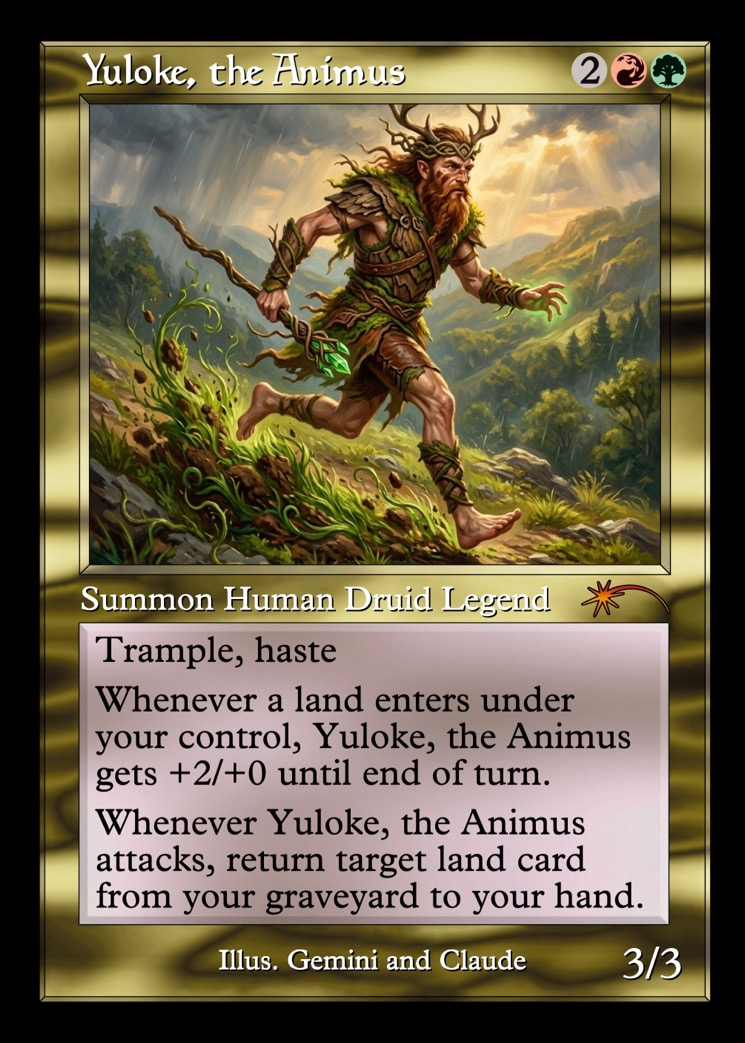
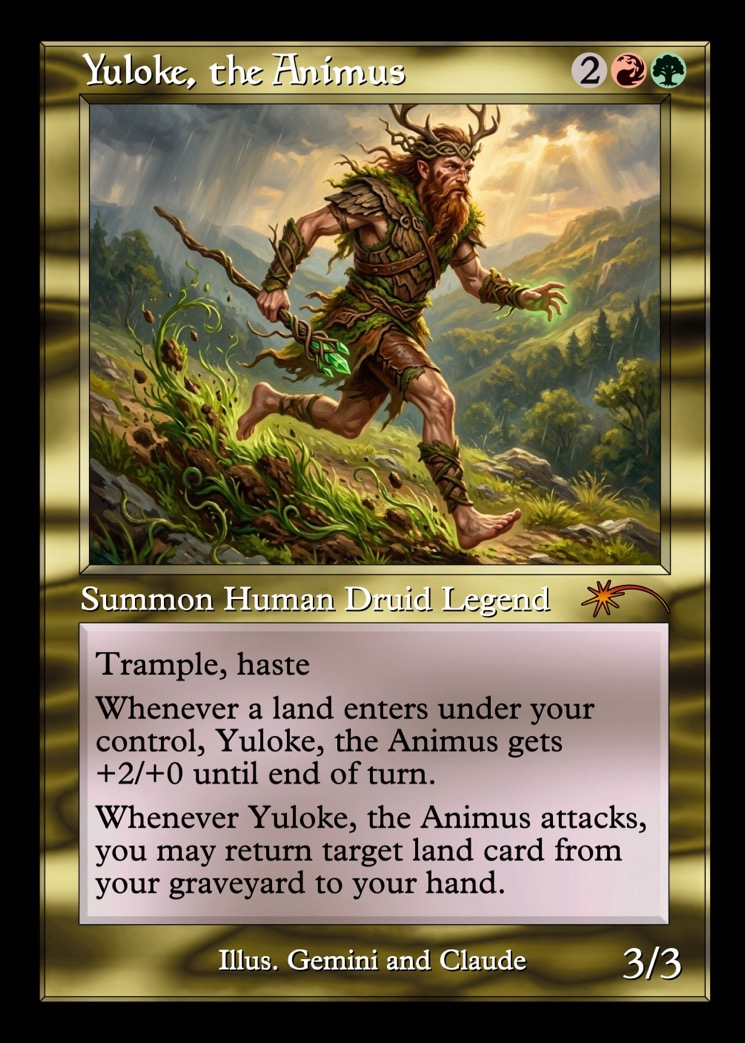
S26 r1: Yuloke printed re-drop verified EXACT ('you may' restored) — installed; MANIFEST flag cleared.

Changed region(s): [[0.1235, 0.6136, 0.8644, 0.8897]]

diff --git a/handoff.md b/handoff.md
@@ -43,7 +43,7 @@
 ## Playtest round 1 (S26 — Chris's first notes)
 
 1. **Art verdicts**: the sheet read "generally good"; **Yuloke and Faldor take candidate 1** (classical oil, both) — MANIFEST rows flipped to KEPT/rejected; the provisional wiring is now the wiring. Printed faces for the two follow on Chris's pipeline.
-2. **Printed faces for Yuloke and Faldor installed** (745px, printedAsset wired). Faldor matches the def word for word. **Yuloke does not**: the printed attack trigger drops "you may" ("Whenever Yuloke, the Animus attacks, return target land card from your graveyard to your hand"); the def and the gauntlet doc are optional. Installed as delivered, MANIFEST flagged, **re-drop wanted** — unless Chris rules the return mandatory, which is a one-field def change (`optional: false`) and a fixture tweak.
+2. **Printed faces for Yuloke and Faldor installed** (745px, printedAsset wired). Faldor matches the def word for word. **Yuloke does not**: the printed attack trigger drops "you may" ("Whenever Yuloke, the Animus attacks, return target land card from your graveyard to your hand"); the def and the gauntlet doc are optional. Chris re-dropped it the same round; the v2 face verified EXACT ("you may" restored), MANIFEST flag cleared.
 3. **The dev menu** (Chris: quick testing of the centre doors): a **Dev** chrome tab lists the fifteen authored sites (five Moxen, five Powers, five Strongholds) with per-site "complete" and four bulk buttons (all / by class). A completion is the site's fall without the crawl — cleared = ground plus only the prize that unlocks things (the Mox and guardian card; the power and guardian card; the lord's card and the seal); no escrow, no colour roll, no renown. Autosaved; idempotent; controller-tested (both doors read open after it). Dev-era affordance: nothing gates it yet — flagged for the planner if a release build ever wants it hidden.
 
 ## Registry entries added/changed
